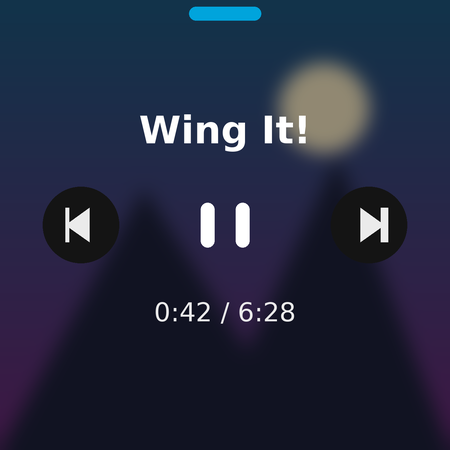
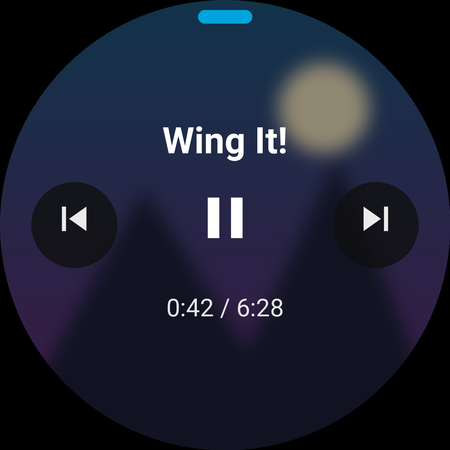
Listing screenshots take 2: real Material glyphs, Roboto, round mask
Same layout, icons (MaterialIcons font, the glyph set the app uses via
material-icons-extended) and typeface as the actual UI, clipped to the
round watch display like a real screencap. Fonts are fetched on demand
(Apache-2.0), not committed.

Claude-Session: https://claude.ai/code/session_01Hs1hgth26A5a42ufTEM5qs

diff --git a/scripts/generate_listing_screenshots.py b/scripts/generate_listing_screenshots.py
@@ -1,40 +1,84 @@
 #!/usr/bin/env python3
-"""Recreate the four Finwatch listing screenshots with rights-free content.
-
-Faithful to the real app UI (layout, colors, typography) but every piece of
-media artwork is generated here: no film posters, no album covers.
-"""
+"""Finwatch listing screenshots, take 2: real Material Icons glyphs, Roboto,
+round watch mask -- 1:1 with the actual app UI, rights-free media only."""
 import math
+import os
 from PIL import Image, ImageDraw, ImageFont, ImageFilter
 
-S = 450          # output size (Play: 1:1, >=384)
-SS = 3           # supersample
+HERE = os.path.dirname(os.path.abspath(__file__))
+S = 450
+SS = 3
 W = S * SS
 
 BLUE = (0x00, 0xA4, 0xDC)
 PURPLE = (0xAA, 0x5C, 0xC3)
-FONT_B = "/usr/share/fonts/truetype/dejavu/DejaVuSans-Bold.ttf"
-FONT_R = "/usr/share/fonts/truetype/dejavu/DejaVuSans.ttf"
+
+FONT_SOURCES = {
+    "MaterialIcons-Regular.ttf":
+        "https://raw.githubusercontent.com/google/material-design-icons/master/font/MaterialIcons-Regular.ttf",
+    "Roboto-Bold.ttf":
+        "https://raw.githubusercontent.com/googlefonts/roboto-2/main/src/hinted/Roboto-Bold.ttf",
+    "Roboto-Regular.ttf":
+        "https://raw.githubusercontent.com/googlefonts/roboto-2/main/src/hinted/Roboto-Regular.ttf",
+}
 
 
-def fb(size):
-    return ImageFont.truetype(FONT_B, size)
+def ensure_fonts():
+    """Fetch Roboto + Material Icons (both Apache-2.0) next to this script
+    on first run -- they are not committed to keep the repo lean."""
+    import urllib.request
+    for name, url in FONT_SOURCES.items():
+        path = os.path.join(HERE, name)
+        if not os.path.exists(path):
+            print("fetching", name)
+            urllib.request.urlretrieve(url, path)
 
 
-def fr(size):
-    return ImageFont.truetype(FONT_R, size)
+ensure_fonts()
+
+MI = os.path.join(HERE, "MaterialIcons-Regular.ttf")
+RB = os.path.join(HERE, "Roboto-Bold.ttf")
+RR = os.path.join(HERE, "Roboto-Regular.ttf")
+
+# codepoints from MaterialIcons-Regular.codepoints (same glyphs the app's
+# material-icons-extended library ships)
+ICONS = {"music_note": chr(0xE405), "tv": chr(0xE333), "movie": chr(0xE02C),
+         "favorite": chr(0xE87D), "settings": chr(0xE8B8),
+         "skip_previous": chr(0xE045), "skip_next": chr(0xE044), "pause": chr(0xE034)}
+
+
+def font(path, size):
+    return ImageFont.truetype(path, size)
 
 
 def lerp(a, b, t):
     return tuple(int(round(a[i] + (b[i] - a[i]) * t)) for i in range(3))
 
 
-def canvas():
-    return Image.new("RGB", (W, W), (0, 0, 0))
+def icon(d, name, cx, cy, size, fill):
+    f = font(MI, int(size))
+    ch = ICONS[name]
+    bbox = d.textbbox((0, 0), ch, font=f)
+    w, h = bbox[2] - bbox[0], bbox[3] - bbox[1]
+    d.text((cx - w / 2 - bbox[0], cy - h / 2 - bbox[1]), ch, font=f, fill=fill)
+
+
+def text_center(d, s, cx, y, f, fill):
+    w = d.textlength(s, font=f)
+    d.text((cx - w / 2, y), s, font=f, fill=fill)
+
+
+def round_mask(img):
+    """Clip the square UI to the round watch display, black corners."""
+    m = Image.new("L", (W, W), 0)
+    ImageDraw.Draw(m).ellipse([0, 0, W, W], fill=255)
+    out = Image.new("RGB", (W, W), (0, 0, 0))
+    out.paste(img, (0, 0), m)
+    return out
 
 
 def finish(img, name):
-    img.resize((S, S), Image.LANCZOS).save(name)
+    round_mask(img).resize((S, S), Image.LANCZOS).save(name)
     print(name)
 
 
@@ -42,69 +86,26 @@ def gradient_ring(d, cx, cy, r, width):
     steps = 240
     for i in range(steps):
         a0 = 2 * math.pi * i / steps
-        a1 = 2 * math.pi * (i + 1) / steps + 0.01
-        col = lerp(BLUE, PURPLE, (math.sin(a0) + 1) / 2)
+        a1 = 2 * math.pi * (i + 1) / steps + 0.02
+        col = lerp(BLUE, PURPLE, (math.sin(a0 - math.pi / 4) + 1) / 2)
         d.arc([cx - r, cy - r, cx + r, cy + r],
               start=math.degrees(a0), end=math.degrees(a1), fill=col, width=width)
 
 
-# ---------- icons (cyan glyphs, matching the app's home tiles) ----------
-
-def icon_note(d, cx, cy, s):
-    d.ellipse([cx - s * 0.42, cy + s * 0.06, cx + s * 0.02, cy + s * 0.42], fill=BLUE)
-    d.rectangle([cx - s * 0.04, cy - s * 0.42, cx + 0.045 * s, cy + s * 0.28], fill=BLUE)
-    d.polygon([(cx - s * 0.04, cy - s * 0.42), (cx + s * 0.42, cy - s * 0.30),
-               (cx + s * 0.42, cy - s * 0.12), (cx - s * 0.04, cy - s * 0.24)], fill=BLUE)
-
-
-def icon_tv(d, cx, cy, s):
-    d.rounded_rectangle([cx - s * 0.44, cy - s * 0.34, cx + s * 0.44, cy + s * 0.22],
-                        radius=int(s * 0.08), outline=BLUE, width=int(s * 0.10))
-    d.rectangle([cx - s * 0.16, cy + s * 0.26, cx + s * 0.16, cy + s * 0.36], fill=BLUE)
-
-
-def icon_clapper(d, cx, cy, s):
-    d.rounded_rectangle([cx - s * 0.44, cy - s * 0.16, cx + s * 0.44, cy + s * 0.38],
-                        radius=int(s * 0.06), fill=BLUE)
-    d.polygon([(cx - s * 0.44, cy - s * 0.20), (cx + s * 0.44, cy - s * 0.42),
-               (cx + s * 0.44, cy - s * 0.24), (cx - s * 0.44, cy - s * 0.02)], fill=BLUE)
-
-
-def icon_heart(d, cx, cy, s):
-    r = s * 0.26
-    cy0 = cy - s * 0.10
-    d.ellipse([cx - 2 * r + r * 0.15, cy0 - r, cx + r * 0.15, cy0 + r], fill=BLUE)
-    d.ellipse([cx - r * 0.15, cy0 - r, cx + 2 * r - r * 0.15, cy0 + r], fill=BLUE)
-    d.polygon([(cx - 1.78 * r, cy0 + r * 0.42), (cx + 1.78 * r, cy0 + r * 0.42),
-               (cx, cy0 + 2.1 * r)], fill=BLUE)
-
-
-def icon_gear(d, cx, cy, s):
-    r = s * 0.30
-    for i in range(8):
-        a = i * math.pi / 4
-        tx, ty = cx + (r + s * 0.10) * math.cos(a), cy + (r + s * 0.10) * math.sin(a)
-        d.ellipse([tx - s * 0.09, ty - s * 0.09, tx + s * 0.09, ty + s * 0.09], fill=BLUE)
-    d.ellipse([cx - r, cy - r, cx + r, cy + r], fill=BLUE)
-    d.ellipse([cx - r * 0.45, cy - r * 0.45, cx + r * 0.45, cy + r * 0.45], fill=(17, 17, 17))
-
-
 def shot_home():
-    img = canvas()
+    img = Image.new("RGB", (W, W), (0, 0, 0))
     d = ImageDraw.Draw(img)
-    tile_r = W * 0.118
-    ring_w = int(W * 0.006)
-    positions = [(-0.145, -0.175), (0.145, -0.175), (-0.145, 0.09), (0.145, 0.09), (0.0, 0.335)]
-    icons = [icon_note, icon_tv, icon_clapper, icon_heart, icon_gear]
-    for (px, py), ic in zip(positions, icons):
-        cx, cy = W / 2 + px * W, W / 2 + py * W - 0.045 * W
+    tile_r = W * 0.117
+    ring_w = max(2, int(W * 0.005))
+    positions = [(-0.145, -0.19), (0.145, -0.19), (-0.145, 0.075), (0.145, 0.075), (0.0, 0.325)]
+    names = ["music_note", "tv", "movie", "favorite", "settings"]
+    for (px, py), name in zip(positions, names):
+        cx, cy = W / 2 + px * W, W / 2 + py * W - 0.02 * W
         d.ellipse([cx - tile_r, cy - tile_r, cx + tile_r, cy + tile_r], fill=(17, 17, 17))
         gradient_ring(d, cx, cy, tile_r, ring_w)
-        ic(d, cx, cy, tile_r * 1.05)
+        icon(d, name, cx, cy, tile_r * 1.05, BLUE)
     finish(img, "s1-home.png")
 
-
-# ---------- generated, rights-free "posters" ----------
 
 def poster(size, top, bottom, kind):
     im = Image.new("RGB", (size, size))
@@ -116,13 +117,15 @@ def poster(size, top, bottom, kind):
                     (size * 0.75, size * 0.35), (size, size)], fill=(30, 34, 60))
         dd.ellipse([size * 0.62, size * 0.14, size * 0.82, size * 0.34], fill=(255, 240, 200))
     elif kind == "orbit":
-        dd.ellipse([size * 0.2, size * 0.2, size * 0.8, size * 0.8], outline=(255, 255, 255), width=max(2, size // 40))
+        dd.ellipse([size * 0.2, size * 0.2, size * 0.8, size * 0.8],
+                   outline=(255, 255, 255), width=max(2, size // 40))
         dd.ellipse([size * 0.42, size * 0.42, size * 0.58, size * 0.58], fill=(255, 255, 255))
         dd.ellipse([size * 0.68, size * 0.30, size * 0.78, size * 0.40], fill=(255, 220, 120))
     elif kind == "waves":
         for i in range(4):
             yy = size * (0.35 + 0.16 * i)
-            pts = [(x, yy + math.sin(x / size * 6.28 + i) * size * 0.05) for x in range(0, size + 8, 8)]
+            pts = [(x, yy + math.sin(x / size * 6.28 + i) * size * 0.05)
+                   for x in range(0, size + 8, 8)]
             dd.line(pts, fill=(240, 245, 255), width=max(2, size // 34))
     return im
 
@@ -136,54 +139,57 @@ def rounded(im, radius):
 
 
 def shot_browse():
-    img = canvas()
+    img = Image.new("RGB", (W, W), (0, 0, 0))
     d = ImageDraw.Draw(img)
     rows = [("Charge!", ("peaks", (250, 150, 60), (120, 40, 90))),
-            ("Cosmos Laundromat", ("orbit", (20, 24, 70), (60, 20, 90))),
+            ("Cosmos\nLaundromat", ("orbit", (20, 24, 70), (60, 20, 90))),
             ("Spring", ("waves", (30, 90, 130), (10, 40, 70)))]
-    row_h = W * 0.22
-    row_gap = W * 0.045
+    row_h = W * 0.235
+    row_gap = W * 0.035
     total = len(rows) * row_h + (len(rows) - 1) * row_gap
     y0 = (W - total) / 2
-    # partial rows top/bottom, like the real scrolling list
-    for extra_y, label in [(y0 - row_h - row_gap, "Agent 327"), (y0 + total + row_gap, "Sprite Fright")]:
-        d.rounded_rectangle([W * 0.08, extra_y, W * 0.92, extra_y + row_h], radius=int(row_h / 2), fill=(26, 26, 26))
-        d.text((W * 0.36, extra_y + row_h * 0.36), label, font=fb(int(W * 0.055)), fill=(150, 150, 150))
+    tf = font(RB, int(W * 0.062))
+    grey = (158, 158, 158)
+    # partial rows peeking at top/bottom, like the scrolling list
+    for extra_y, label in [(y0 - row_h - row_gap, "Agent 327"),
+                           (y0 + total + row_gap, "Sprite Fright")]:
+        d.rounded_rectangle([W * 0.05, extra_y, W * 0.95, extra_y + row_h],
+                            radius=int(row_h / 2), fill=(28, 28, 28))
+        cov = rounded(poster(int(row_h * 0.72), (90, 90, 110), (40, 40, 60), "orbit"), int(row_h * 0.14))
+        img.paste(cov, (int(W * 0.095), int(extra_y + row_h * 0.14)), cov)
+        d.text((W * 0.34, extra_y + row_h * 0.32), label, font=tf, fill=grey)
     for i, (title, (kind, top, bottom)) in enumerate(rows):
         ry = y0 + i * (row_h + row_gap)
-        d.rounded_rectangle([W * 0.08, ry, W * 0.92, ry + row_h], radius=int(row_h / 2), fill=(26, 26, 26))
-        cov = rounded(poster(int(row_h * 0.76), top, bottom, kind), int(row_h * 0.16))
-        img.paste(cov, (int(W * 0.115), int(ry + row_h * 0.12)), cov)
-        # wrap long titles onto two lines like the real list
-        font = fb(int(W * 0.062))
-        words = title.split()
-        if d.textlength(title, font=font) > W * 0.50 and len(words) > 1:
-            d.text((W * 0.36, ry + row_h * 0.16), words[0], font=font, fill=(210, 210, 210))
-            d.text((W * 0.36, ry + row_h * 0.52), " ".join(words[1:]), font=font, fill=(210, 210, 210))
-        else:
-            d.text((W * 0.36, ry + row_h * 0.33), title, font=font, fill=(210, 210, 210))
+        d.rounded_rectangle([W * 0.05, ry, W * 0.95, ry + row_h],
+                            radius=int(row_h / 2), fill=(28, 28, 28))
+        cov = rounded(poster(int(row_h * 0.72), top, bottom, kind), int(row_h * 0.14))
+        img.paste(cov, (int(W * 0.095), int(ry + row_h * 0.14)), cov)
+        lines = title.split("\n")
+        lh = tf.size * 1.18
+        ty = ry + row_h / 2 - lh * len(lines) / 2 + (lh - tf.size) / 2
+        for li, line in enumerate(lines):
+            d.text((W * 0.34, ty + li * lh), line, font=tf, fill=grey)
     finish(img, "s2-browse.png")
 
 
 def shot_video():
-    img = canvas()
+    img = Image.new("RGB", (W, W), (0, 0, 0))
     d = ImageDraw.Draw(img)
-    # 16:9 letterboxed procedural dusk landscape
     vh = int(W * 9 / 16)
     y0 = (W - vh) // 2
     for y in range(vh):
-        t = y / vh
-        d.line([(0, y0 + y), (W, y0 + y)], fill=lerp((250, 170, 90), (60, 40, 90), t))
-    # sun
+        d.line([(0, y0 + y), (W, y0 + y)], fill=lerp((250, 170, 90), (60, 40, 90), y / vh))
     d.ellipse([W * 0.62, y0 + vh * 0.18, W * 0.74, y0 + vh * 0.18 + W * 0.12], fill=(255, 235, 190))
-    # mountain layers
+
     def ridge(base, amp, col, seed):
         pts = [(0, y0 + vh)]
         for x in range(0, W + 20, 20):
-            yy = y0 + vh * base + math.sin(x / W * 5 + seed) * vh * amp + math.sin(x / W * 13 + seed * 2) * vh * amp * 0.4
+            yy = (y0 + vh * base + math.sin(x / W * 5 + seed) * vh * amp
+                  + math.sin(x / W * 13 + seed * 2) * vh * amp * 0.4)
             pts.append((x, yy))
         pts.append((W, y0 + vh))
         d.polygon(pts, fill=col)
+
     ridge(0.55, 0.10, (90, 60, 100), 1.2)
     ridge(0.70, 0.08, (55, 38, 70), 3.1)
     ridge(0.84, 0.05, (30, 22, 40), 5.0)
@@ -191,40 +197,26 @@ def shot_video():
 
 
 def shot_player():
-    # background: blurred generated "cover art"
     bg = poster(W, (30, 90, 130), (110, 40, 120), "peaks").filter(ImageFilter.GaussianBlur(W * 0.02))
     img = Image.new("RGB", (W, W))
     img.paste(bg, (0, 0))
-    dark = Image.new("L", (W, W), 110)
-    img.paste(Image.new("RGB", (W, W), (0, 0, 0)), (0, 0), dark)
+    img.paste(Image.new("RGB", (W, W), (0, 0, 0)), (0, 0), Image.new("L", (W, W), 110))
     d = ImageDraw.Draw(img)
     # top progress pill
-    d.rounded_rectangle([W * 0.42, W * 0.015, W * 0.58, W * 0.045], radius=int(W * 0.015), fill=BLUE)
-    # title
-    title = "Wing It!"
-    font = fb(int(W * 0.085))
-    tw = d.textlength(title, font=font)
-    d.text(((W - tw) / 2, W * 0.24), title, font=font, fill=(255, 255, 255))
-    # transport controls
+    d.rounded_rectangle([W * 0.44, W * 0.022, W * 0.56, W * 0.052],
+                        radius=int(W * 0.015), fill=BLUE)
+    text_center(d, "Wing It!", W / 2, W * 0.255, font(RB, int(W * 0.082)), (255, 255, 255))
     cy = W * 0.50
-    for sx, kind in [(W * 0.18, "prev"), (W * 0.82, "next")]:
-        r = W * 0.085
-        d.ellipse([sx - r, cy - r, sx + r, cy + r], fill=(20, 20, 20, 180))
-        tri = r * 0.45
-        sgn = -1 if kind == "prev" else 1
-        d.polygon([(sx + sgn * tri * 0.9, cy), (sx - sgn * tri * 0.5, cy - tri),
-                   (sx - sgn * tri * 0.5, cy + tri)], fill=(235, 235, 235))
-        d.rectangle([sx + sgn * tri * 0.9 - (W * 0.008 if sgn > 0 else 0),
-                     cy - tri, sx + sgn * tri * 0.9 + (W * 0.008 if sgn < 0 else 0) + (W * 0.008 if sgn > 0 else 0), cy + tri], fill=(235, 235, 235))
-    # pause
-    bw, bh = W * 0.030, W * 0.10
-    d.rounded_rectangle([W / 2 - bw * 1.8, cy - bh / 2, W / 2 - bw * 0.8, cy + bh / 2], radius=int(bw / 2), fill=(255, 255, 255))
-    d.rounded_rectangle([W / 2 + bw * 0.8, cy - bh / 2, W / 2 + bw * 1.8, cy + bh / 2], radius=int(bw / 2), fill=(255, 255, 255))
-    # time readout
-    t = "0:42 / 6:28"
-    font2 = fr(int(W * 0.058))
-    tw2 = d.textlength(t, font=font2)
-    d.text(((W - tw2) / 2, W * 0.66), t, font=font2, fill=(235, 235, 235))
+    # skip buttons in translucent dark circles
+    for sx, name in [(W * 0.165, "skip_previous"), (W * 0.835, "skip_next")]:
+        r = W * 0.095
+        circ = Image.new("RGBA", (W, W), (0, 0, 0, 0))
+        ImageDraw.Draw(circ).ellipse([sx - r, cy - r, sx + r, cy + r], fill=(15, 15, 15, 200))
+        img.paste(circ, (0, 0), circ)
+        d = ImageDraw.Draw(img)
+        icon(d, name, sx, cy, r * 1.15, (235, 235, 235))
+    icon(d, "pause", W / 2, cy, W * 0.155, (255, 255, 255))
+    text_center(d, "0:42 / 6:28", W / 2, W * 0.645, font(RR, int(W * 0.055)), (232, 232, 232))
     finish(img, "s4-player.png")
 
 
